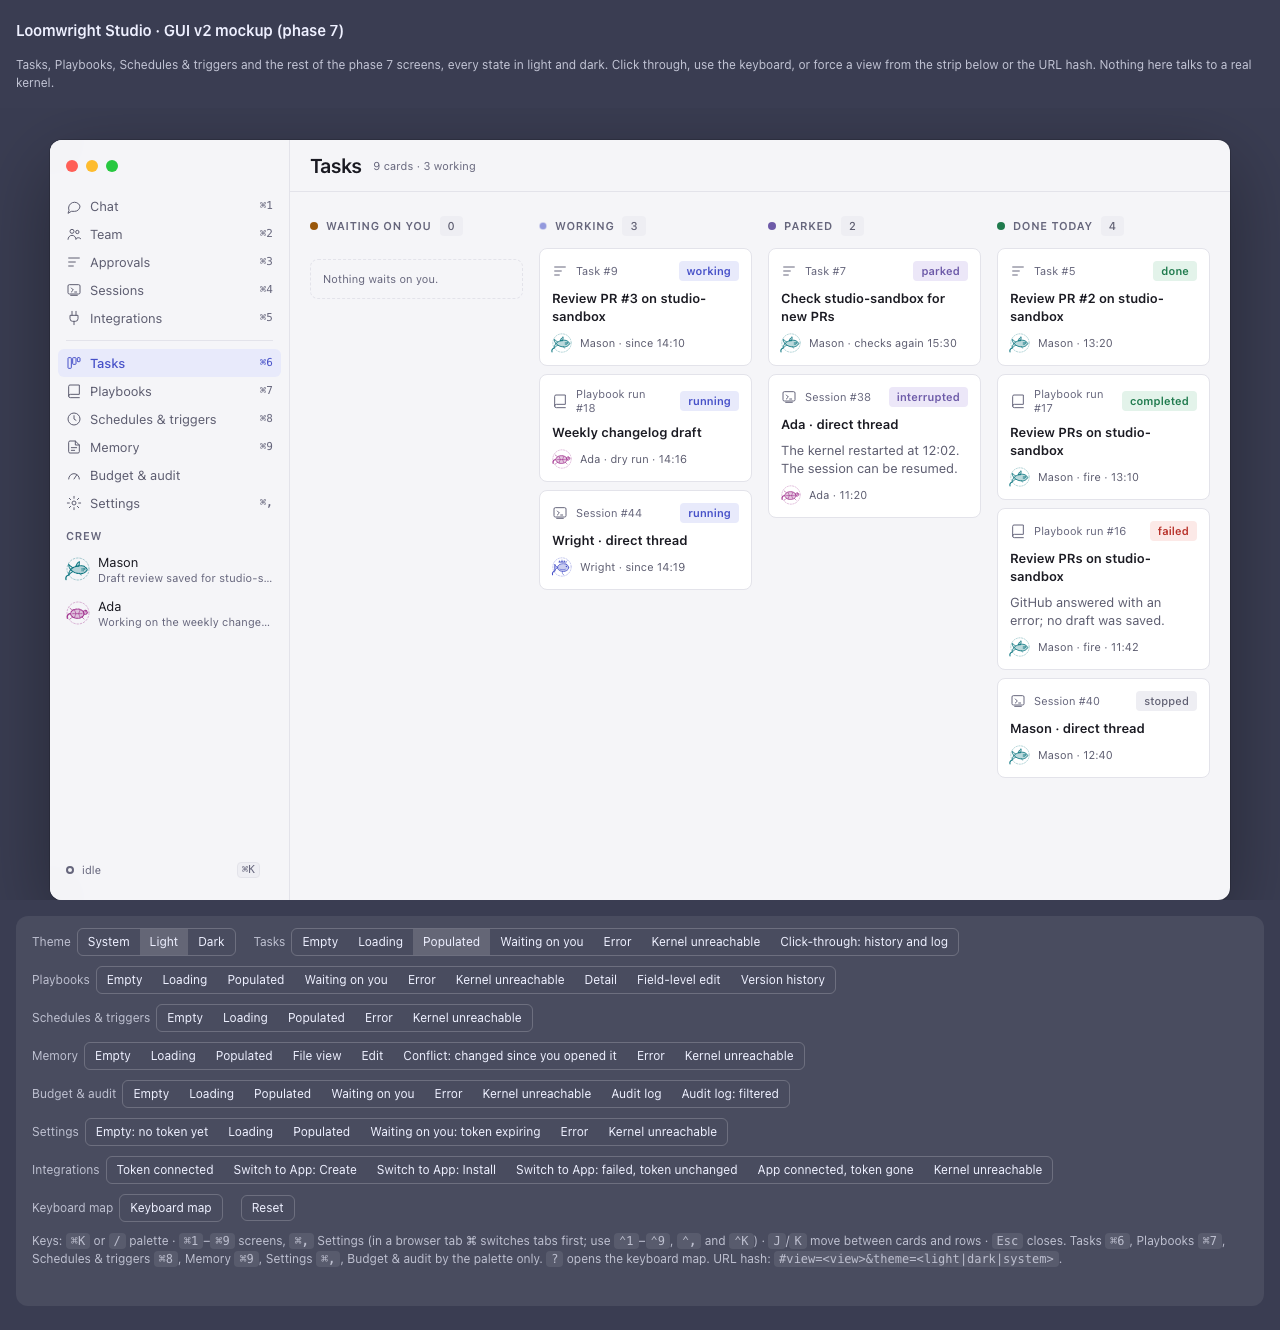
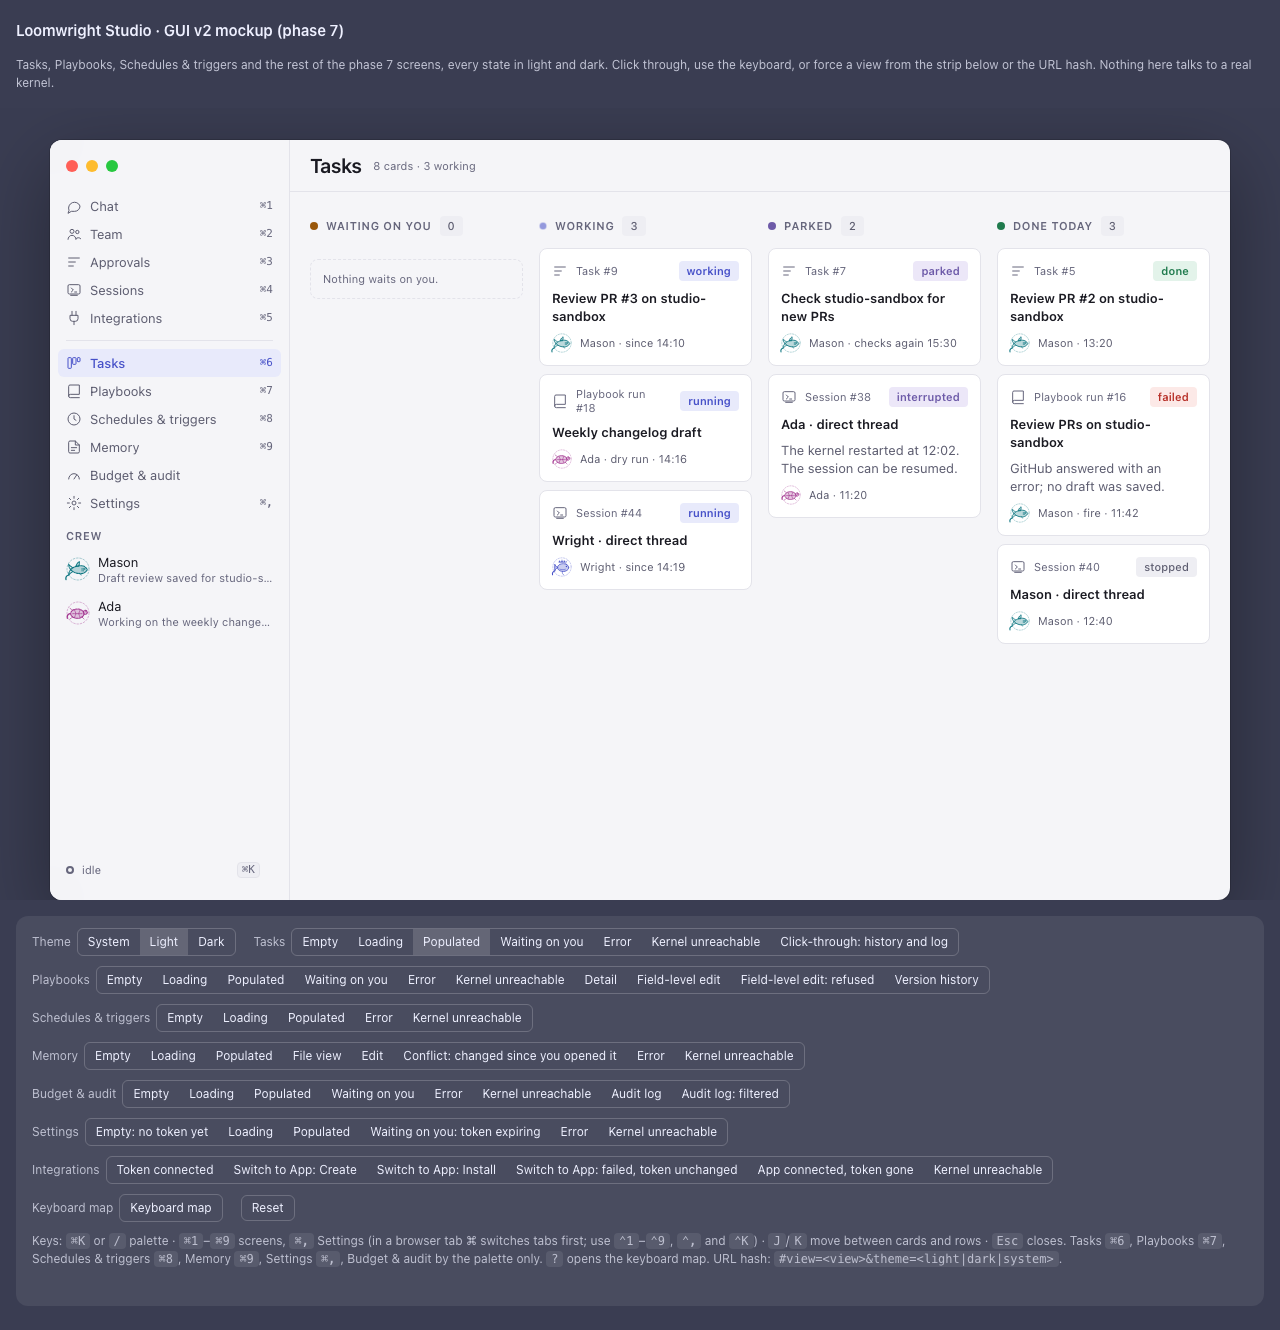
fix: address review feedback (iteration 1)

diff --git a/docs/design/mockups/gui-v2.html b/docs/design/mockups/gui-v2.html
@@ -641,9 +641,6 @@ const CARDS=[
   {key:'t5',kind:'task',id:5,grp:'done',ag:'mason',st:'done',title:'Review PR #2 on studio-sandbox',meta:'13:20',tkind:'review',created:'13:10',upd:'13:20',sess:37,dedupe:'vikashruhilgit/studio-sandbox#2@9f8e7d6',
    h:[['13:10','task_created','mason','Review PR #2 on studio-sandbox · state working'],['13:19','draft_output_recorded','mason','Draft review recorded for studio-sandbox #2'],['13:20','task_updated','mason','state done']],
    l:[['13:10','tool','read   PR #2 · 1 file changed'],['13:19','okl','draft review saved (recorded, not sent)'],['13:20','out','done']]},
-  {key:'r17',kind:'run',id:17,grp:'done',ag:'mason',st:'completed',title:'Review PRs on studio-sandbox',meta:'fire · 13:10',pb:'Review PRs on studio-sandbox',rkind:'fire',ver:3,tok:31870,started:'13:10',ended:'13:20',sess:37,dedupe:'vikashruhilgit/studio-sandbox#2@9f8e7d6',
-   h:[['13:10','trigger_fired','kernel','Poll fired Review PRs on studio-sandbox v3'],['13:20','playbook_run','mason','Run 17 completed · 31,870 tokens']],
-   l:[['13:10','tool','read   PR #2 · 1 file changed'],['13:19','okl','draft review saved (recorded, not sent)']]},
   {key:'r16',kind:'run',id:16,grp:'done',ag:'mason',st:'failed',title:'Review PRs on studio-sandbox',why:'GitHub answered with an error; no draft was saved.',meta:'fire · 11:42',pb:'Review PRs on studio-sandbox',rkind:'fire',ver:2,tok:2104,started:'11:42',ended:'11:43',sess:35,
    h:[['11:42','trigger_fired','kernel','Poll fired Review PRs on studio-sandbox v2'],['11:43','playbook_run','mason','Run 16 failed · 2,104 tokens']],
    l:[['11:42','tool','read   PR #1'],['11:43','err','GitHub answered 502; the run stopped without a draft']]},
@@ -833,6 +830,7 @@ const VIEWS={
   'playbooks-unreachable':{scr:'playbooks',st:'unreachable',label:'Kernel unreachable',grp:'playbooks'},
   'playbooks-detail':{scr:'playbooks',st:'detail',label:'Detail',grp:'playbooks'},
   'playbooks-edit':{scr:'playbooks',st:'edit',label:'Field-level edit',grp:'playbooks'},
+  'playbooks-edit-refused':{scr:'playbooks',st:'edit',label:'Field-level edit: refused',grp:'playbooks'},
   'playbooks-history':{scr:'playbooks',st:'history',label:'Version history',grp:'playbooks'},
   'schedules-empty':{scr:'schedules',st:'empty',label:'Empty',grp:'schedules'},
   'schedules-loading':{scr:'schedules',st:'loading',label:'Loading',grp:'schedules'},
@@ -887,7 +885,7 @@ const dis=off=>off?' disabled title="Needs the kernel"':'';
 function setView(v){
   if(!Object.prototype.hasOwnProperty.call(VIEWS,v)) return false;
   pending=null; S.view=v; S.w2=false; S.dlg=VIEWS[v].dlg||null;
-  if(v==='playbooks-edit'){ if(!S.f) S.f=formFrom(pbNow(),true); } else S.f=null;
+  if(v==='playbooks-edit'||v==='playbooks-edit-refused'){ if(!S.f) S.f=formFrom(pbNow(),v==='playbooks-edit-refused'?'refused':true); } else S.f=null;
   /* Memory: a forced edit or conflict view starts from the owner's demo edit of mason/lessons.md; a click starts from the file as it is. */
   if(v==='memory-conflict'){ S.mp=LS_PATH; if(!S.mf||S.mf.path!==LS_PATH) S.mf=memDraft(LS_PATH,true); }
   else if(v==='memory-edit'){ if(!S.mf||S.mf.path!==S.mp) S.mf=memDraft(S.mp,true); }
@@ -968,11 +966,25 @@ const FIELDS=[['name','name','Name'],['intent','intent','Intent'],['dedupe','ded
 const setBy=b=>b==='owner'?'<span class="badge neu">set by you</span>':'<span class="badge acc">proposed by Wright</span>';
 function formFrom(p,demo){
   const f={name:p.name,intent:p.intent,dedupe:p.dedupe,priority:p.priority,model:p.model,effort:p.effort,limit:String(p.limit),mode:p.mode};
-  if(demo){ f.priority='high'; f.limit='150000'; }
+  if(demo==='refused'){ f.name=''; f.intent='   '; f.dedupe='{repo}#{pr}'; }
+  else if(demo){ f.priority='high'; f.limit='150000'; }
   return f;
 }
 function changes(p,f){ return FIELDS.filter(([k])=>String(p[k])!==String(f[k])).map(([k,col])=>({key:k,col,from:String(p[k]),to:String(f[k])})); }
-const limitBad=f=>!/^[1-9]\d*$/.test(String(f.limit).trim());
+/* The refusals the form draws, one per field, in the kernel's words. Closed set: DEDUPE_KEY_FIELDS in kernel/src/playbooks/types.ts. */
+const KEY_FIELDS=['playbook.id','playbook.version','trigger.id','trigger.scheduled_at','date','item.id','item.revision'];
+const OK_HINT={name:'',intent:'Plain English. Wright reads this.',dedupe:'What counts as already done: a comma-separated list of the kernel\'s key fields, such as item.id, item.revision or date.',limit:'Input, output and cache-write tokens count. Cache reads do not.'};
+function formErrs(f){
+  const e={};
+  if(!String(f.name).trim()) e.name='Give the playbook a name.';
+  if(!String(f.intent).trim()) e.intent='Say in plain English what the playbook does.';
+  const keys=String(f.dedupe).split(',').map(x=>x.trim()), unk=keys.filter(k=>!KEY_FIELDS.includes(k));
+  if(keys.length===1&&!keys[0]) e.dedupe='Name at least one key field: '+KEY_FIELDS.join(', ')+'.';
+  else if(unk.length) e.dedupe=(unk[0]?'“'+unk[0]+'”':'An empty entry')+' is not a key field. Use '+KEY_FIELDS.join(', ')+'.';
+  if(!/^[1-9]\d*$/.test(String(f.limit).trim())) e.limit='Use a whole number of tokens greater than 0.';
+  return e;
+}
+const formBad=f=>Object.keys(formErrs(f)).length>0;
 function diffHTML(lines,head){
   const body=lines.length?lines.map(([t,x])=>`<div class="ln ${t}"><span aria-hidden="true">${t==='add'?'+':t==='del'?'−':' '}</span><span><span class="vh">${t==='add'?'added: ':t==='del'?'removed: ':''}</span>${esc(x)}</span></div>`).join(''):'<div class="nodiff">No changes yet.</div>';
   return `<div class="diff mono" role="group" aria-label="${esc(head)}"><div class="dh cap">${esc(head)}</div>${body}</div>`;
@@ -1018,18 +1030,20 @@ function pbPage(st){
       <div class="pane"><div class="pad"><div class="sech"><h3 class="label">${v.chg?'Changes in':'Created as'} v${v.v}</h3><span class="cap">by ${by} · ${v.at}</span></div>${diffHTML(lines,`playbook_versions · v${v.v}`)}<p class="cap">Older versions are read-only. To go back, change the fields or ask Wright; that writes a new version.</p></div></div></div>`};
   }
   if(st==='edit'){
-    const f=S.f||formFrom(p), ch=changes(p,f), bad=limitBad(f);
+    const f=S.f||formFrom(p), ch=changes(p,f), er=formErrs(f), bad=Object.keys(er).length>0;
     const sel=(id,opts)=>`<div class="field"><select id="f-${id}" aria-label="${id}">${opts.map(o=>`<option value="${o}"${f[id]===o?' selected':''}>${o}</option>`).join('')}</select></div>`;
+    const fld=(key,inner,cls)=>`<div class="field${cls?' '+cls:''}${er[key]?' err':''}" id="fld-${key}">${inner}</div><span class="cap" id="h-${key}" role="${er[key]?'alert':'note'}" style="${er[key]?'color:var(--danger)':''}">${esc(er[key]||OK_HINT[key])}</span>`;
+    const ia=key=>`aria-describedby="h-${key}"${er[key]?' aria-invalid="true"':''}`;
     const row=(key,lbl,ctl,help)=>`<label class="lbl" for="f-${key}">${lbl}</label><div class="ctl">${ctl}<span class="by cap">${key==='name'||key==='intent'?'':setBy(p.by[key])}${help||''}</span></div>`;
     return {title:'Playbooks',sub:'Field-level edit',html:`<div class="content insp"><div class="scroll"><div class="pad tight">${crumb('cancel-edit','Playbook')}<div class="dhead"><h2>Edit fields</h2><span class="badge neu">v${p.ver} now · saves as v${p.ver+1}</span></div></div>
       <form class="pad fe" id="editform" onsubmit="return false">
-        ${row('name','Name',`<div class="field"><input id="f-name" value="${esc(f.name)}"></div>`)}
-        ${row('intent','Intent',`<div class="field ta"><textarea id="f-intent" rows="3">${esc(f.intent)}</textarea></div>`,' <span>Plain English. Wright reads this.</span>')}
-        ${row('dedupe','Dedupe key',`<div class="field"><input id="f-dedupe" class="mono" value="${esc(f.dedupe)}"></div>`,' <span>What counts as already done: a comma-separated list of the kernel\'s key fields, such as item.id, item.revision or date.</span>')}
+        ${row('name','Name',fld('name',`<input id="f-name" value="${esc(f.name)}" ${ia('name')}>`))}
+        ${row('intent','Intent',fld('intent',`<textarea id="f-intent" rows="3" ${ia('intent')}>${esc(f.intent)}</textarea>`,'ta'))}
+        ${row('dedupe','Dedupe key',fld('dedupe',`<input id="f-dedupe" class="mono" value="${esc(f.dedupe)}" ${ia('dedupe')}>`))}
         ${row('priority','Priority',sel('priority',['low','normal','high']))}
         ${row('model','Model',sel('model',['haiku','sonnet','opus']))}
         ${row('effort','Effort',sel('effort',['low','medium','high']),' <span>Recorded only.</span>')}
-        ${row('limit','Token limit per day',`<div class="field${bad?' err':''}" id="limfield"><input id="f-limit" class="tn" inputmode="numeric" value="${esc(f.limit)}" aria-describedby="lim-h"${bad?' aria-invalid="true"':''}></div><span class="cap" id="lim-h" role="${bad?'alert':'note'}" style="color:${bad?'var(--danger)':''}">${bad?'Use a whole number of tokens greater than 0.':'Input, output and cache-write tokens count. Cache reads do not.'}</span>`)}
+        ${row('limit','Token limit per day',fld('limit',`<input id="f-limit" class="tn" inputmode="numeric" value="${esc(f.limit)}" ${ia('limit')}>`))}
         ${row('mode','Mode',`<div class="field"><select id="f-mode" aria-label="mode"><option value="draft" selected>draft</option><option value="live" disabled>live (not available yet)</option></select></div>`,' <span>Draft records outward calls and sends none.</span>')}
       </form></div>
       <aside class="inspector" aria-label="Changes"><div class="sech"><h3 class="label">Changes</h3></div><div id="diffbox">${diffBox(p,f)}</div><p class="cap" id="chgnote">${chgNote(ch)}</p>${p.status==='enabled'?'<p class="cap">Any change makes this playbook a draft again, as the kernel does. Turn it on once you have read the new version.</p>':''}<div class="dhead"><span class="sp"></span><button class="btn sec" data-act="cancel-edit">Cancel</button><button class="btn pri" id="savebtn" data-act="save-edit"${!ch.length||bad?' disabled':''}>Save as v${p.ver+1}</button></div></aside></div>`};
@@ -1052,15 +1066,17 @@ function diffBox(p,f){
 }
 const chgNote=ch=>ch.length?`${ch.length} field${ch.length>1?'s':''} changed. Policy fields among them will read “set by you”; the rest keep who set them.`:'Nothing changed. Edit a field to see it here.';
 function updateEdit(){
-  const p=pbNow(), f=S.f; if(!f) return; const ch=changes(p,f), bad=limitBad(f);
+  const p=pbNow(), f=S.f; if(!f) return; const ch=changes(p,f), er=formErrs(f), bad=Object.keys(er).length>0;
   $('#diffbox').innerHTML=diffBox(p,f); $('#chgnote').textContent=chgNote(ch);
   $('#savebtn').disabled=!ch.length||bad;
-  $('#limfield').classList.toggle('err',bad); const h=$('#lim-h'), inp=$('#f-limit');
-  h.textContent=bad?'Use a whole number of tokens greater than 0.':'Input, output and cache-write tokens count. Cache reads do not.'; h.style.color=bad?'var(--danger)':''; h.setAttribute('role',bad?'alert':'note');
-  if(bad) inp.setAttribute('aria-invalid','true'); else inp.removeAttribute('aria-invalid');
+  Object.keys(OK_HINT).forEach(k=>{
+    $('#fld-'+k).classList.toggle('err',!!er[k]); const h=$('#h-'+k), inp=$('#f-'+k);
+    h.textContent=er[k]||OK_HINT[k]; h.style.color=er[k]?'var(--danger)':''; h.setAttribute('role',er[k]?'alert':'note');
+    if(er[k]) inp.setAttribute('aria-invalid','true'); else inp.removeAttribute('aria-invalid');
+  });
 }
 function saveEdit(){
-  const p=pbNow(), f=S.f; if(!f) return; const ch=changes(p,f); if(!ch.length||limitBad(f)) return;
+  const p=pbNow(), f=S.f; if(!f) return; const ch=changes(p,f); if(!ch.length||formBad(f)) return;
   ch.forEach(c=>{ p[c.key]=c.key==='limit'?+c.to:c.to; p.by[c.key]='owner'; });
   const wasOn=p.status==='enabled'; if(wasOn) p.status='draft';
   p.ver++; p.vers.unshift({v:p.ver,at:'Fri 30 Oct 14:23',chg:ch.map(c=>[c.col,c.from,c.to,'owner'])}); S.ver=p.ver;

diff --git a/docs/evidence/gui-v2-mockup/README.md b/docs/evidence/gui-v2-mockup/README.md
@@ -1,6 +1,6 @@
 # GUI v2 mockup: screenshot, token and field-map evidence (phase 7 item 02)
 
-These are screenshots of every designed view of `docs/design/mockups/gui-v2.html`, in light and dark (50 views, 100 images), plus the audit of its token block and of every value outside it, and the map from every field the mockup shows to a kernel column, a route or a shape phase 7 item 01 declares. The mockup is static: it runs no kernel and makes no GitHub call. Each view is forced by the URL hash (`#view=<view>&theme=<light|dark>`), so each screenshot comes from one headless-browser command. No script is committed. The owner approves the design by merging the PR that adds it (D9). What the mockup commits items 03–09 to, and the open points for the owner, are in `docs/DESIGN.md` §["Phase 7: GUI v2"](../../DESIGN.md#phase-7-gui-v2). The Integrations screen, its GitHub token views and its GitHub App views are approved in `integrations.html` (see [the phase 6 evidence](../phase-6-integrations-mockup/README.md) and [the GitHub App evidence](../github-app-mockup/README.md)) and are not redrawn here; the Integrations views below add only the proposed token-to-App path.
+These are screenshots of every designed view of `docs/design/mockups/gui-v2.html`, in light and dark (51 views, 102 images), plus the audit of its token block and of every value outside it, and the map from every field the mockup shows to a kernel column, a route or a shape phase 7 item 01 declares. The mockup is static: it runs no kernel and makes no GitHub call. Each view is forced by the URL hash (`#view=<view>&theme=<light|dark>`), so each screenshot comes from one headless-browser command. No script is committed. The owner approves the design by merging the PR that adds it (D9). What the mockup commits items 03–09 to, and the open points for the owner, are in `docs/DESIGN.md` §["Phase 7: GUI v2"](../../DESIGN.md#phase-7-gui-v2). The Integrations screen, its GitHub token views and its GitHub App views are approved in `integrations.html` (see [the phase 6 evidence](../phase-6-integrations-mockup/README.md) and [the GitHub App evidence](../github-app-mockup/README.md)) and are not redrawn here; the Integrations views below add only the proposed token-to-App path.
 
 ## Screenshots
 
@@ -30,6 +30,7 @@ Each image is the full page: the intro line, the 1180×760 window, and the revie
 | `playbooks-unreachable` | The shared band over the last-known Table; switches and the Ask Wright button are disabled | [gui-v2-playbooks-unreachable-light.png](gui-v2-playbooks-unreachable-light.png) | [gui-v2-playbooks-unreachable-dark.png](gui-v2-playbooks-unreachable-dark.png) |
 | `playbooks-detail` | One playbook: intent, the policy fields with who set each, the trigger with next fire and last result, the on/off switch, tokens today with a meter and "≈ at API rates", recent runs, Edit in English, Edit fields and Version history | [gui-v2-playbooks-detail-light.png](gui-v2-playbooks-detail-light.png) | [gui-v2-playbooks-detail-dark.png](gui-v2-playbooks-detail-dark.png) |
 | `playbooks-edit` | Field-level edit: eight fields, each with who set it; two changed (priority, token limit) and shown in a DiffView; Save as v4. Saving an enabled playbook makes it a draft again, and the note says so | [gui-v2-playbooks-edit-light.png](gui-v2-playbooks-edit-light.png) | [gui-v2-playbooks-edit-dark.png](gui-v2-playbooks-edit-dark.png) |
+| `playbooks-edit-refused` | Field-level edit with three fields the kernel would refuse: an empty name, an empty intent (spaces only) and a dedupe key `{repo}#{pr}`, which is outside the kernel's closed set of seven key fields. Each shows its reason in `danger` under the field (`aria-invalid`, `aria-describedby`) and Save as v4 is disabled | [gui-v2-playbooks-edit-refused-light.png](gui-v2-playbooks-edit-refused-light.png) | [gui-v2-playbooks-edit-refused-dark.png](gui-v2-playbooks-edit-refused-dark.png) |
 | `playbooks-history` | Version history: the versions list (v3 current) and the changes in v3 as a DiffView, read-only | [gui-v2-playbooks-history-light.png](gui-v2-playbooks-history-light.png) | [gui-v2-playbooks-history-dark.png](gui-v2-playbooks-history-dark.png) |
 
 ### Schedules & triggers
@@ -142,10 +143,10 @@ For example, `playbooks-edit` in dark:
 npx playwright screenshot --color-scheme=dark --viewport-size=1280,1000 --full-page --wait-for-timeout=600 'file://<repo>/docs/design/mockups/gui-v2.html#view=playbooks-edit&theme=dark' <repo>/docs/evidence/gui-v2-mockup/gui-v2-playbooks-edit-dark.png
 ```
 
-To regenerate all 100 (bash, from `app/`):
+To regenerate all 102 (bash, from `app/`):
 
 ```sh
-for v in tasks-empty tasks-loading tasks-populated tasks-waiting tasks-error tasks-unreachable tasks-history playbooks-empty playbooks-loading playbooks-populated playbooks-waiting playbooks-error playbooks-unreachable playbooks-detail playbooks-edit playbooks-history schedules-empty schedules-loading schedules-populated schedules-error schedules-unreachable memory-empty memory-loading memory-populated memory-file memory-edit memory-conflict memory-error memory-unreachable budget-empty budget-loading budget-populated budget-waiting budget-error budget-unreachable budget-audit budget-audit-filtered settings-empty settings-loading settings-populated settings-waiting settings-error settings-unreachable integrations-token integrations-token-to-app integrations-token-to-app-install integrations-token-to-app-failed integrations-app-connected integrations-unreachable keymap; do
+for v in tasks-empty tasks-loading tasks-populated tasks-waiting tasks-error tasks-unreachable tasks-history playbooks-empty playbooks-loading playbooks-populated playbooks-waiting playbooks-error playbooks-unreachable playbooks-detail playbooks-edit playbooks-edit-refused playbooks-history schedules-empty schedules-loading schedules-populated schedules-error schedules-unreachable memory-empty memory-loading memory-populated memory-file memory-edit memory-conflict memory-error memory-unreachable budget-empty budget-loading budget-populated budget-waiting budget-error budget-unreachable budget-audit budget-audit-filtered settings-empty settings-loading settings-populated settings-waiting settings-error settings-unreachable integrations-token integrations-token-to-app integrations-token-to-app-install integrations-token-to-app-failed integrations-app-connected integrations-unreachable keymap; do
   for t in light dark; do
     npx playwright screenshot --color-scheme=$t --viewport-size=1280,1000 --full-page --wait-for-timeout=600 "file://<repo>/docs/design/mockups/gui-v2.html#view=$v&theme=$t" "<repo>/docs/evidence/gui-v2-mockup/gui-v2-$v-$t.png"
   done
@@ -406,7 +407,7 @@ The numbers match `docs/DESIGN.md` §"Phase 7: GUI v2" → "Open points for the 
 
 ## Defects found and fixed in the mockup
 
-Subtask 3 changes no HTML except to fix a defect it finds. Six were found while building this map, and each is fixed in `gui-v2.html` (the token block is untouched):
+Subtask 3 changes no HTML except to fix a defect it finds. Six were found while building this map and two in review; each is fixed in `gui-v2.html` (the token block is untouched):
 
 1. **Audit kinds that do not exist.** The log showed `session` and `playbook_run` as event kinds. The kernel writes `session_status`, and no `playbook_run` event. The five rows are now `session_status`, with the run named in the text ("Session 37 ended completed · playbook run 17 · 31,870 tokens").
 2. **Dedupe key shown as a template.** The mockup showed `{repo}#{pr}@{head_sha}`. The kernel stores a list of key fields from a closed set. The three playbooks now show lists (`item.id, item.revision`; `trigger.id, trigger.scheduled_at`; `playbook.id, date`), and the edit field says what it takes.
@@ -414,6 +415,8 @@ Subtask 3 changes no HTML except to fix a defect it finds. Six were found while 
 4. **A saved edit left the playbook on.** The kernel makes an enabled playbook a draft again on any change. The edit page now says so, and Save turns the playbook into a draft with a toast.
 5. **A "why" line with no source.** Task #12 carried a sentence no column holds. The line is removed; the task's title is the ask.
 6. **Two session titles with no source** ("Ada · changelog draft", "Ada · refactor spike"). They are now "Ada · Weekly changelog draft" (the session's playbook) and "Ada · direct thread".
+7. **A form field the mockup let you save with a value the kernel refuses.** Only the token limit had a refusal; an empty name, an empty intent and a dedupe key outside `DEDUPE_KEY_FIELDS` left Save on. Every text field of the field-level edit now validates (`formErrs`), shows its reason in `danger` and turns Save off, and `playbooks-edit-refused` draws the state. The other forms were swept: Memory's edit is free markdown (its one refusal, `changed_since_read`, is `memory-conflict`), and Settings, Integrations and the Playbooks switches are toggles and fixed choices with no free value.
+8. **The same work shown as two cards.** Run 17 and task 5 shared session 37, agent, dedupe key and window, but a session or a run is its own card only when no task owns it. Run 17's card is removed from Done today; the other cards were checked and no other session id or dedupe key repeats (runs 16 and 18 and sessions 38, 39, 40 and 44 have no owning task).
 
 ## Found, not changed
 

diff --git a/docs/DESIGN.md b/docs/DESIGN.md
@@ -149,7 +149,7 @@ Each screen has an empty, a loading, a populated, an error and a `Kernel unreach
 - **Playbooks (item 04):**
   - A Table of intent, trigger, dedupe key, priority, model, mode, last run, tokens today against the limit (dollars only as "≈ at API rates", D24) and an on/off switch.
   - A detail page shows who set each policy field ("set by you", "proposed by Wright"), the trigger, recent runs and tokens, with Edit in English (opens Wright's thread with the playbook named), Edit fields and Version history.
-  - Field-level edit shows a live diff and saves as the next version through `POST /playbooks/:id/set`, and a refusal is shown as the kernel gives it. Version history is read-only: going back writes a new version.
+  - Field-level edit shows a live diff and saves as the next version through `POST /playbooks/:id/set`. Save stays off while a field holds a value the kernel would refuse, and each refused field shows its reason in `danger` under it: an empty name or intent, a dedupe key naming a field outside the kernel's closed set of seven, or a token limit that is not a whole number above 0. Item 04 shows the kernel's own refusal text when the route answers with one. Version history is read-only: going back writes a new version.
   - A change makes an enabled playbook a draft again, as the kernel does, and the page says so.
 - **Schedules & triggers (item 05):**
   - A timeline of upcoming wake-ups, polls and cron fires, with a list of the triggers and an on/off switch for each.
